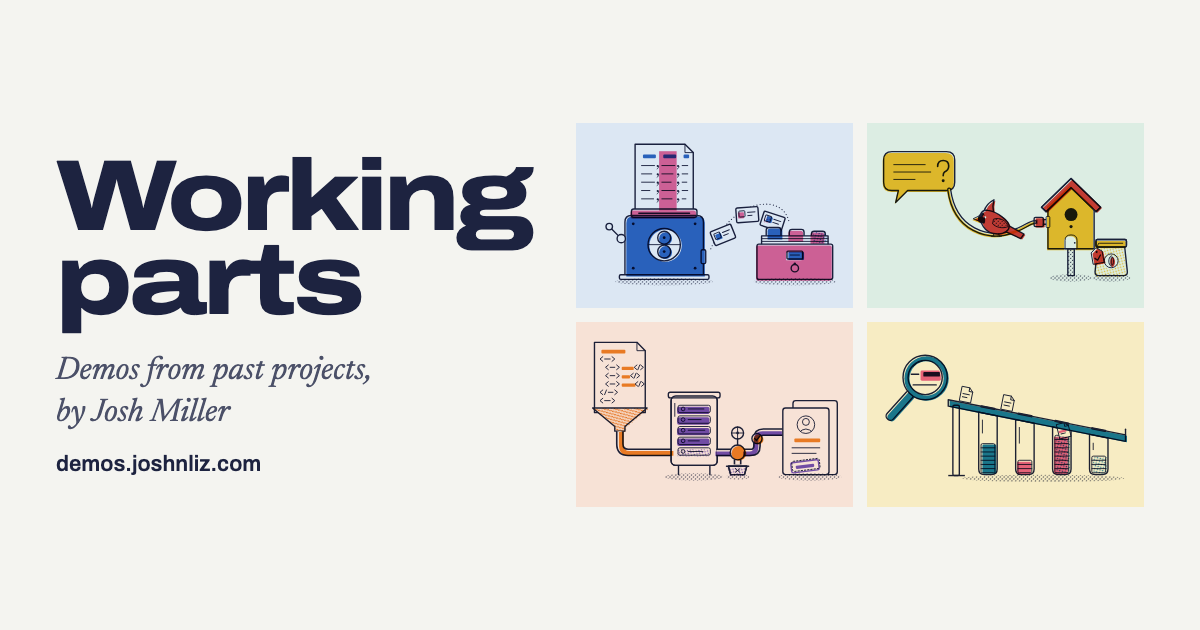
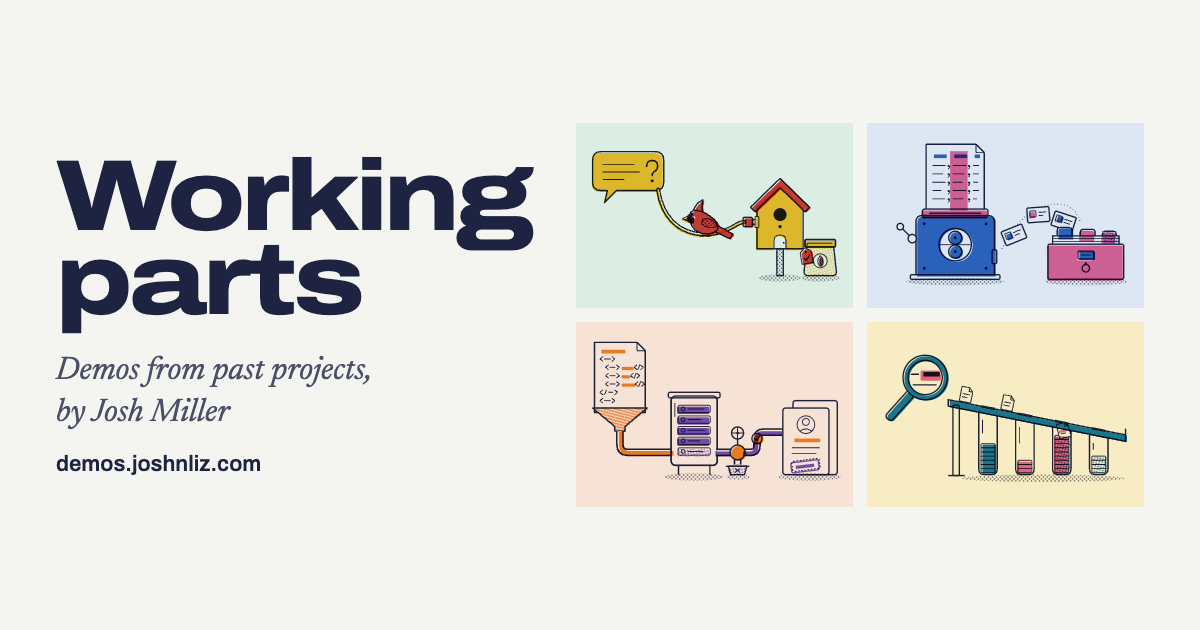
Feature the WBU MCP concept on the landing page
Moves the WBU entry into the lead slot and puts its plate first in the
social preview. The mini catalog heads the two-column list.

Changed region(s): [[0.7092, 0.2111, 0.9558, 0.4524], [0.4933, 0.2111, 0.7092, 0.4524]]

diff --git a/site/index.html b/site/index.html
@@ -293,10 +293,35 @@
         <article class="demo lead">
           <img
             class="plate"
-            src="plates/mini-catalog.svg"
+            src="plates/wbu-mcp.svg"
             width="600"
             height="400"
             fetchpriority="high"
+            alt="A chat bubble with a question mark runs a cable to a birdhouse store, where a bag of seed carries a hold tag. A cardinal sits on the cable."
+          />
+          <div>
+            <h2>Wild Birds Unlimited MCP (concept)</h2>
+            <p class="io">A customer's question in, a hold at the local store out.</p>
+            <p class="desc">
+              An animated pitch for an MCP server that answers AI assistants from a bird store chain's own systems: live hours, shelf counts,
+              events and staff sightings. Twelve tools play out as chats with customers across the US and Canada. Sample data, not affiliated
+              with Wild Birds Unlimited.
+            </p>
+            <p class="links">
+              <a class="go" href="/wbu-mcp/">Watch the concept</a>
+              <a href="https://github.com/joshmiller83/demos/tree/main/site/wbu-mcp">Source</a>
+            </p>
+          </div>
+        </article>
+
+        <article class="demo">
+          <img
+            class="plate"
+            src="plates/mini-catalog.svg"
+            width="600"
+            height="400"
+            loading="lazy"
+            decoding="async"
             alt="A CSV sheet feeds into a small press. Its rows fly out as index cards into a card catalog drawer with colored divider tabs."
           />
           <div>
@@ -358,31 +383,6 @@
             <p class="links">
               <a class="go" href="/umf-dashboard/">Read the write-up</a>
               <a href="https://upward-mobility.urban.org/dashboard">Live dashboard</a>
-            </p>
-          </div>
-        </article>
-
-        <article class="demo">
-          <img
-            class="plate"
-            src="plates/wbu-mcp.svg"
-            width="600"
-            height="400"
-            loading="lazy"
-            decoding="async"
-            alt="A chat bubble with a question mark runs a cable to a birdhouse store, where a bag of seed carries a hold tag. A cardinal sits on the cable."
-          />
-          <div>
-            <h2>Wild Birds Unlimited MCP (concept)</h2>
-            <p class="io">A customer's question in, a hold at the local store out.</p>
-            <p class="desc">
-              An animated pitch for an MCP server that answers AI assistants from a bird store chain's own systems: live hours, shelf counts,
-              events and staff sightings. Twelve tools play out as chats with customers across the US and Canada. Sample data, not affiliated
-              with Wild Birds Unlimited.
-            </p>
-            <p class="links">
-              <a class="go" href="/wbu-mcp/">Watch the concept</a>
-              <a href="https://github.com/joshmiller83/demos/tree/main/site/wbu-mcp">Source</a>
             </p>
           </div>
         </article>

diff --git a/scripts/og.html b/scripts/og.html
@@ -17,6 +17,6 @@
 </style>
 <div><h1><span>Working</span><span>parts</span></h1><p>Demos from past projects,<br>by Josh Miller</p><p class="url">demos.joshnliz.com</p></div>
 <div class="grid">
-<img src="../site/plates/mini-catalog.svg"><img src="../site/plates/wbu-mcp.svg">
+<img src="../site/plates/wbu-mcp.svg"><img src="../site/plates/mini-catalog.svg">
 <img src="../site/plates/urban-pipeline.svg"><img src="../site/plates/search.svg">
 </div>
